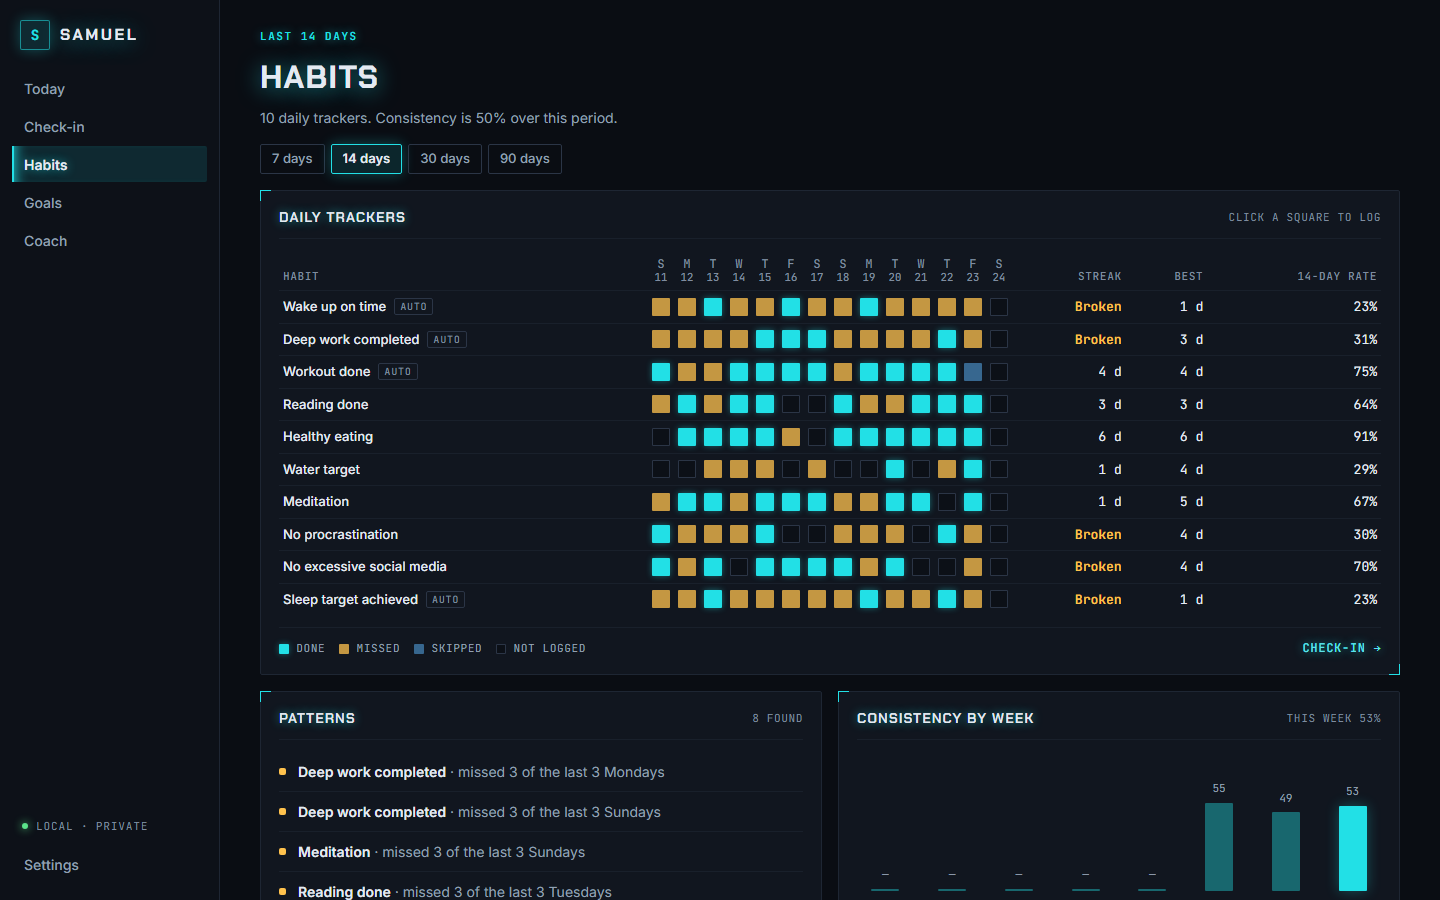
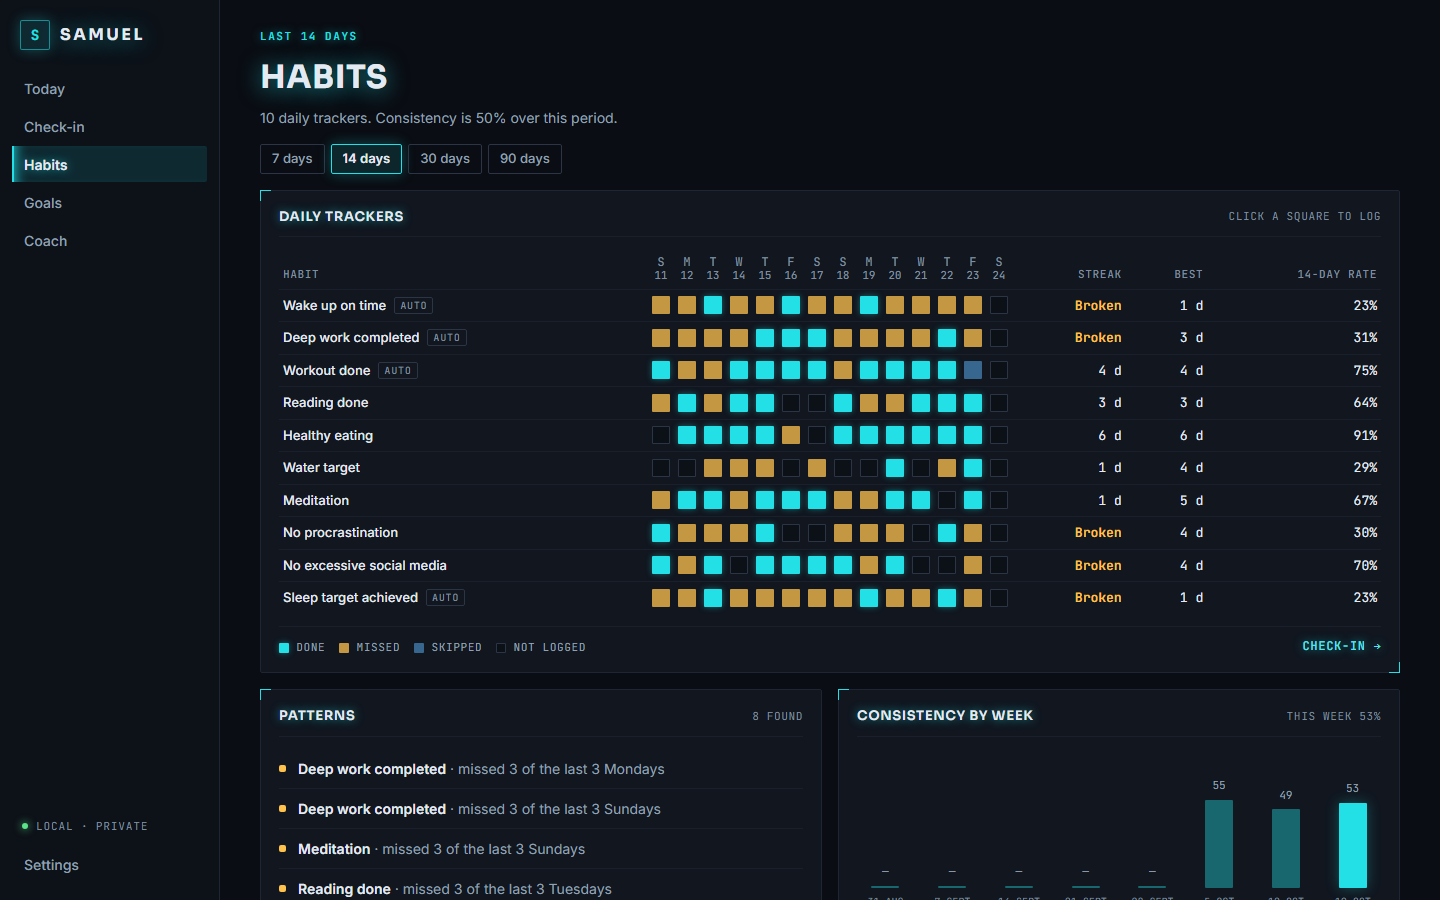
Use Sora for headings so titles look less blocky (#28)
Chakra Petch's squared letters read as blocky. Sora keeps the modern tech
feel with round letterforms. Letter spacing is tightened since Sora is wider.

diff --git a/frontend/src/index.css b/frontend/src/index.css
@@ -24,7 +24,7 @@
   --amber: #ffc24d;
   --blue: #5cb8ff;
 
-  --font-display: 'Chakra Petch', system-ui, sans-serif;
+  --font-display: 'Sora', system-ui, sans-serif;
   --font-body: 'Inter', system-ui, sans-serif;
   --font-mono: 'JetBrains Mono', ui-monospace, monospace;
 
@@ -117,7 +117,7 @@ main { flex: 1; min-width: 0; padding: 28px clamp(16px, 3vw, 40px) 48px; }
   font-size: 11px; font-weight: 500; letter-spacing: 0.14em; text-transform: uppercase; color: var(--accent);
 }
 .page-head h1 {
-  margin: 8px 0 6px; font-size: clamp(26px, 2.6vw, 32px); font-weight: 700; letter-spacing: 0.04em; text-transform: uppercase;
+  margin: 8px 0 6px; font-size: clamp(26px, 2.6vw, 32px); font-weight: 700; letter-spacing: 0.02em; text-transform: uppercase;
 }
 .page-head p { margin: 0; color: var(--text-muted); font-size: 14px; }
 .row { display: flex; flex-wrap: wrap; gap: 16px; align-items: stretch; }
@@ -136,7 +136,7 @@ main { flex: 1; min-width: 0; padding: 28px clamp(16px, 3vw, 40px) 48px; }
 .card::before, .scores::before { top: -1px; left: -1px; border-top: 1px solid var(--bracket); border-left: 1px solid var(--bracket); }
 .card::after, .scores::after { bottom: -1px; right: -1px; border-bottom: 1px solid var(--bracket); border-right: 1px solid var(--bracket); }
 .card-head { display: flex; align-items: center; gap: 10px; padding-bottom: 10px; border-bottom: 1px solid var(--divider); }
-.card-head h2 { font-size: 14px; font-weight: 600; flex: 1; text-transform: uppercase; letter-spacing: 0.08em; }
+.card-head h2 { font-size: 13px; font-weight: 600; flex: 1; text-transform: uppercase; letter-spacing: 0.06em; }
 .card-meta { font-size: 11px; color: var(--text-faint); text-transform: uppercase; letter-spacing: 0.06em; }
 .card-foot {
   margin-top: auto; display: flex; align-items: center; justify-content: space-between; gap: 12px;

diff --git a/frontend/src/main.tsx b/frontend/src/main.tsx
@@ -1,9 +1,9 @@
 import { StrictMode } from 'react'
 import { createRoot } from 'react-dom/client'
 // Fonts are bundled with the app: no requests to font CDNs.
-import '@fontsource/chakra-petch/500.css'
-import '@fontsource/chakra-petch/600.css'
-import '@fontsource/chakra-petch/700.css'
+import '@fontsource/sora/500.css'
+import '@fontsource/sora/600.css'
+import '@fontsource/sora/700.css'
 import '@fontsource/inter/400.css'
 import '@fontsource/inter/500.css'
 import '@fontsource/inter/600.css'

diff --git a/CLAUDE.md b/CLAUDE.md
@@ -50,7 +50,7 @@ As you work, commit to Git and push to GitHub regularly, so there is always a sa
 
 Design rules:
 - Tech style (since 2026-10-24, this overrides the canvas's colours and fonts; the canvas still defines layout): deep blue-black surfaces (page #0A0D13, sidebar #0D1118, card #11161F, border #1E2633) and one electric cyan accent (default #22E0E6). Status colours: green #5BE38A, amber #FFC24D, blue #5CB8FF. Every text colour passes WCAG AA on every surface.
-- Mission control details (since 2026-10-24): Chakra Petch for uppercase headings, Inter for body text, JetBrains Mono for numbers, times, and small uppercase labels, all bundled locally. Sharp 2px corners, thin 1px borders, accent corner brackets on cards, segmented LED-style meters, a soft accent glow on active items, and a soft accent glow under headings, labels and key numbers (a text-shadow). No background grid. Settings sits at the bottom-left of the sidebar.
+- Mission control details (since 2026-10-24): Sora for uppercase headings (round, not blocky), Inter for body text, JetBrains Mono for numbers, times, and small uppercase labels, all bundled locally. Sharp 2px corners, thin 1px borders, accent corner brackets on cards, segmented LED-style meters, a soft accent glow on active items, and a soft accent glow under headings, labels and key numbers (a text-shadow). No background grid. Settings sits at the bottom-left of the sidebar.
 - Users can re-theme from any accent (see Custom themes in `docs/PLAN.md`), so build every colour from CSS variables and never hard-code the hex values in components.
 - Every card prompts an action and ends with a "→" link.
 - Dense lists of 5–10 rows with "Show more", filter pills, sortable headers, and visible labels.

diff --git a/docs/PLAN.md b/docs/PLAN.md
@@ -129,7 +129,7 @@ design/    canvas source (kept in sync)
 
 **Settings → Appearance:** a hue wheel, vibe presets, theme controls and a live preview.
 
-**Palette (tech style, 2026-10-24):** a deep blue-black base (page #0A0D13, cards #11161F) with an electric cyan accent (default #22E0E6; sky, iris, sunrise and pink are alternatives) and crisp status colours (green #5BE38A, amber #FFC24D, blue #5CB8FF). Fonts: Chakra Petch, Inter and JetBrains Mono. A mission control finish: 2px corners, card corner brackets, LED-style segmented meters, a soft glow on active items and under headings and labels. The canvas designs keep the earlier palette and fonts; the app's styles are the reference for colour and type.
+**Palette (tech style, 2026-10-24):** a deep blue-black base (page #0A0D13, cards #11161F) with an electric cyan accent (default #22E0E6; sky, iris, sunrise and pink are alternatives) and crisp status colours (green #5BE38A, amber #FFC24D, blue #5CB8FF). Fonts: Sora, Inter and JetBrains Mono. A mission control finish: 2px corners, card corner brackets, LED-style segmented meters, a soft glow on active items and under headings and labels. The canvas designs keep the earlier palette and fonts; the app's styles are the reference for colour and type.
 
 **Custom themes (Settings → Appearance):**
 - Electric cyan is the default ("Calm" vibe).

diff --git a/CHANGELOG.md b/CHANGELOG.md
@@ -8,6 +8,7 @@ All notable changes to Samuel are listed here. Versions follow [semantic version
 - **Goals:** goals by life area with milestones, progress from milestones done (a dash until a goal has any), area filters and sorting, a priority matrix (impact vs effort), a 6-month roadmap, this week's milestones and your long-term vision. Samuel's export now includes active goals and what's due this week.
 
 ### Changed
+- **Rounder headings:** Sora replaces Chakra Petch for headings, so titles look less blocky.
 - **Glow and sidebar:** a soft accent glow under headings, labels and key numbers; the background grid is gone; Settings sits at the bottom-left of the sidebar, which now stays in place as the page scrolls.
 - **Mission control look:** Chakra Petch uppercase headings, sharp 2px corners, accent corner brackets on cards, LED-style segmented score meters, a faint grid behind the page, and a soft glow on active items.
 
